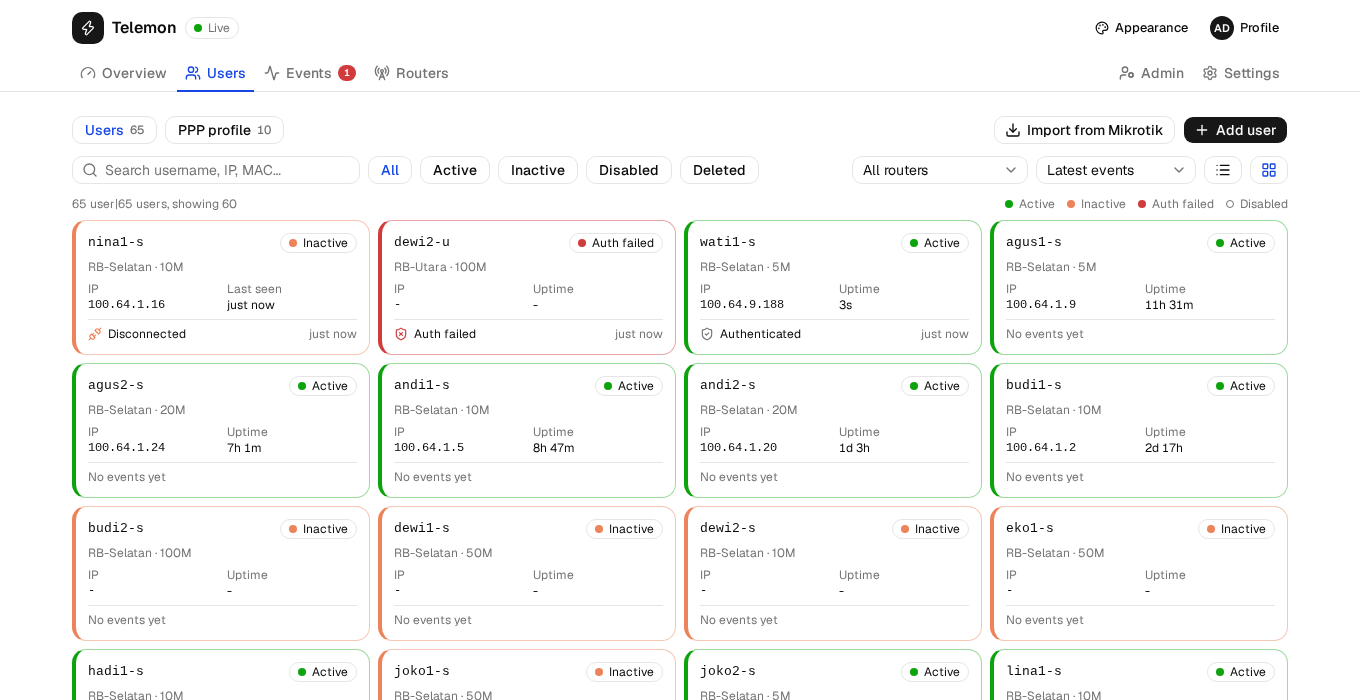
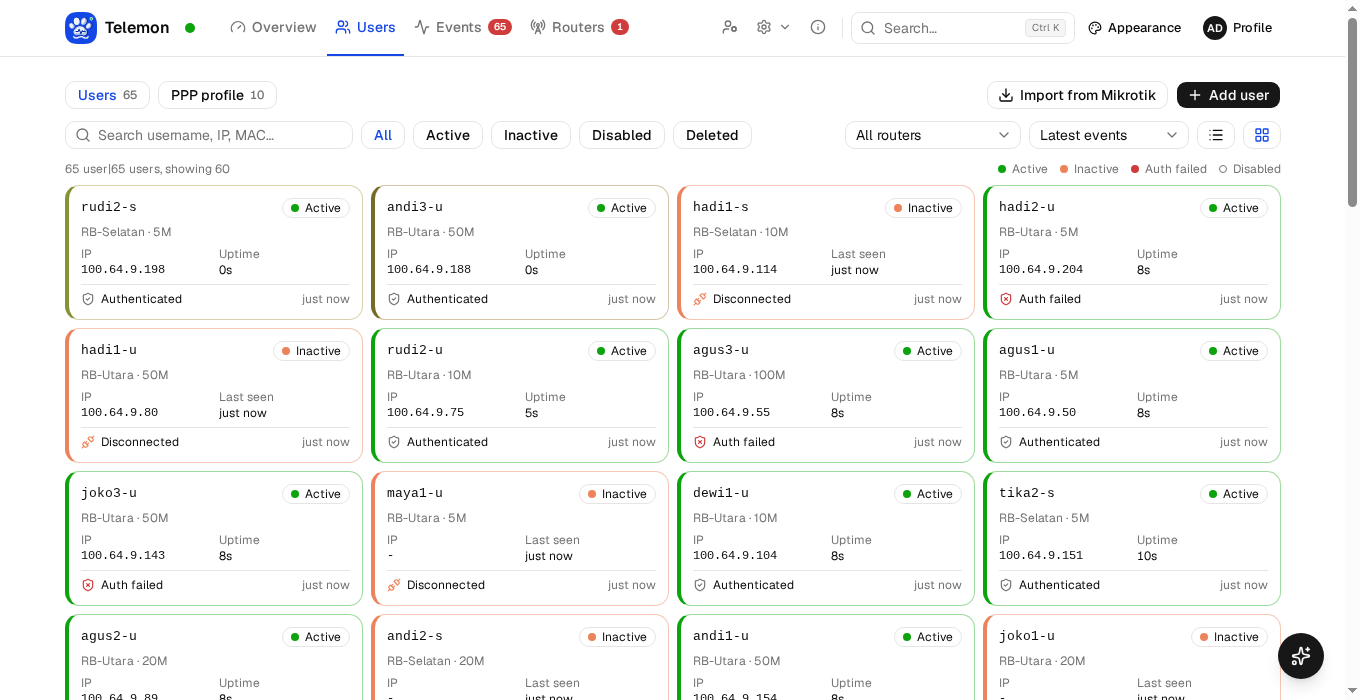
docs: refresh README and screenshots (extensions, command palette, desktop toolbar)

diff --git a/README.md b/README.md
@@ -12,14 +12,14 @@ Telemon reads each router over the RouterOS API and shows who is connected, who 
 
 ## Status
 
-Pre-release (`v0.1.0-rc.x`). The core, server and UI are tested against a simulated RouterOS. **It has not been run against a real MikroTik router yet.** The Linux `.deb` has been smoke-tested in a clean Ubuntu 24.04 container (installs, starts, serves the UI in the real webview); The Windows build has been tried on a real PC by the maintainer and works; a real desktop keyring on Linux has not been tried. The macOS build crashes at launch on at least one Apple Silicon Mac (under investigation). Treat it as a release candidate and keep write access off until you have tried it on a lab router.
+Pre-release (`v0.1.0-rc.x`). The core, server and UI are tested against a simulated RouterOS. **It has not been run against a real MikroTik router yet (this includes bandwidth charts, Router health and the SSH terminal).** The Linux `.deb` has been smoke-tested in a clean Ubuntu 24.04 container (installs, starts, serves the UI in the real webview); the Windows build has been tried on a real PC by the maintainer and works; a real desktop keyring on Linux has not been tried. The macOS build crashes at launch on at least one Apple Silicon Mac (under investigation). Treat it as a release candidate and keep write access off until you have tried it on a lab router.
 
 ## Features
 
 - **Multi-router monitoring.** Users with status (active, inactive, disabled, auth failed), live events, per-router health, filters and search.
 - **Widget overview.** The Overview page is a grid of widgets (counters, router cards, latest events, events per hour, users per profile and more). Accounts with the Overview *Edit* permission can drag, resize, add and remove widgets; the layout is shared by every account, and an empty layout falls back to the default. Editing is on screens medium and wider; phones show the widgets in one column.
 - **Bandwidth charts.** Telemon reads each router's interface counters on an interval you set (default 60 s, kept 7 days) and turns them into rates. Three widgets use it: a chart per router and interface, the total across all routers' PPPoE sessions, and the average per active user. Pick the router, interface and range in the widget's settings. PPPoE sessions are summed into one `@pppoe` series per router, so totals and per-user averages need no per-session history. The first sample appears one interval after a router is added.
-- **Desktop app** (Windows and Linux, Tauri v2) with a local SQLite database. No server to deploy.
+- **Desktop app** (Windows, Linux and macOS, Tauri v2) with a local SQLite database. No server to deploy.
 - **Share to a browser.** One switch turns the desktop app into a LAN server so you can open the same UI from a laptop or phone.
 - **Public access.** An optional Cloudflare Quick Tunnel exposes the server to the internet. Telemon downloads a pinned, checksum-verified `cloudflared` for you. While public access is on, two-factor authentication is forced and the tunnel turns off by itself after a timer.
 - **Accounts and roles** for browser access: login with TOTP two-factor authentication and recovery codes, custom roles with per-menu permissions (no access, view, edit), and protection against privilege escalation. The desktop app itself needs no login.
@@ -27,7 +27,9 @@ Pre-release (`v0.1.0-rc.x`). The core, server and UI are tested against a simula
 - **Secure storage.** Router credentials and PPPoE passwords are encrypted (ChaCha20-Poly1305). The database key lives in the OS keyring, with a `0600` file fallback when no keyring is available. TLS to the router supports certificate fingerprint pinning.
 - **Signed in-app updates** with a stable and a test channel. The database is backed up before an update installs.
 - **AI assistant** (read-only, off until you add a provider): ask questions about your users and events in plain language. It uses OpenAI-compatible APIs (OpenAI, DeepSeek, Gemini, 9Router) or Anthropic, only reads data the asker's role may see, masks IPs and MACs by default, never sees passwords, and has a monthly budget with a usage dashboard. Besides lookups it can compute **event statistics** (per hour or day, most auth failures and disconnects), a **bandwidth summary** (now, average, peak, per user, change versus the previous period, per router) and **router health** (downtime and availability). It can also **propose Overview widget changes** (add, remove, change a widget's router, interface or range): a proposal appears as a card and nothing changes until you press Apply, which uses your own permission. Customer data is sent to the provider you choose.
-- **Extensions (early, official only).** Signed `.tmx` packages add features to the app; the first contribution type is Overview widgets. Install, turn on and set permissions per extension in Settings > Extensions; every permission has a toggle the core enforces, and changes are audited. On by default in the desktop app; off on a server until `TELEMON_EXTENSIONS=1`. Extension packages live in a separate repository; this repo holds the host and the SDK contract (`src/lib/extensions/sdk.ts`). See ADR 0028.
+- **Extensions (official only for now).** Signed `.tmx` packages (Ed25519) add features to the app: Overview widgets, pages, router actions, bottom-panel tabs, scheduled workers, API routes and a sandboxed WASM backend, with their own database tables through declarative migrations. Install from the built-in store (a signed catalogue), or from a file or link; dependencies and Telemon version ranges are checked before install. Every permission has a toggle the core enforces, each extension has its own Access page per role (none, view, edit plus declared actions), and changes are audited. The first extensions are **Router health** and **Router terminal (SSH)**; the terminal opens from a router's action menu in a bottom panel, pins the router's SSH host key and needs the Router *Edit* permission. On by default in the desktop app; off on a server until `TELEMON_EXTENSIONS=1`. Extension packages live in [`telemon-extensions`](https://github.com/teliti-dev/telemon-extensions); this repo holds the host and the SDK contract (`src/lib/extensions/sdk.ts`). See ADR 0028 and 0029.
+- **Command palette.** Press Ctrl/Cmd+K (or the Search button) to jump anywhere, Spotlight style: arrow keys move, Enter opens, Esc closes. Menu is searched by default; Routers, Users and Other (PPP profiles, extension pages) are switches under the palette or in Appearance, remembered per browser or app, and only offered when your role may see them.
+- **Desktop toolbar.** One compact toolbar with the logo, a green Live dot you can click for a status popup (routers online, active users, last event, sharing, version), the main menu, Search, Appearance and your account. On macOS the toolbar replaces the title bar; on Windows it carries the window buttons. The desktop window has a minimum and maximum size. Phones keep the bottom menu.
 - **Bilingual UI** (English and Indonesian), light and dark themes, responsive down to phone width.
 
 | Users | User detail |
@@ -37,6 +39,10 @@ Pre-release (`v0.1.0-rc.x`). The core, server and UI are tested against a simula
 | Events | Settings |
 |---|---|
 | ![Events](docs/screenshots/events.png) | ![Settings](docs/screenshots/settings.png) |
+
+| Command palette (Ctrl+K) | Extensions |
+|---|---|
+| ![Command palette](docs/screenshots/command-palette.png) | ![Extensions](docs/screenshots/extensions.png) |
 
 **AI dashboard** (Settings): providers, tokens per day, balance and monthly budget.
 
